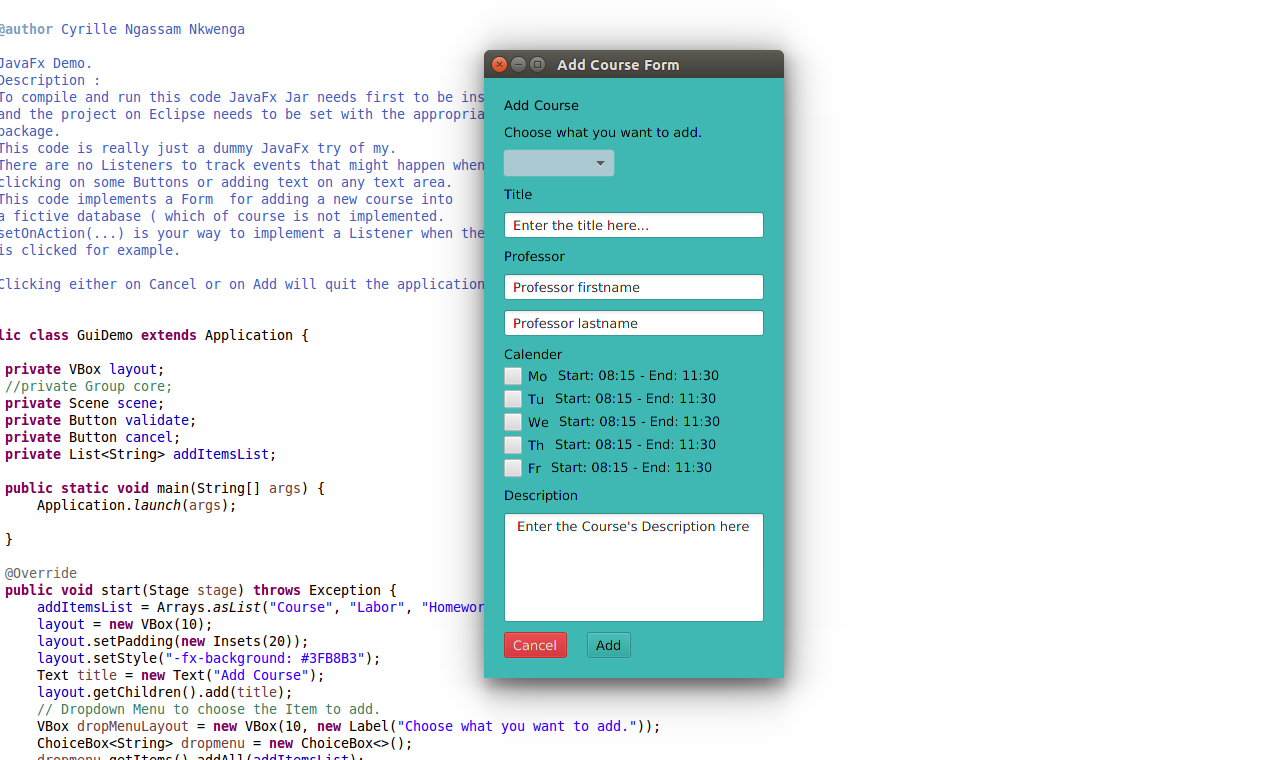
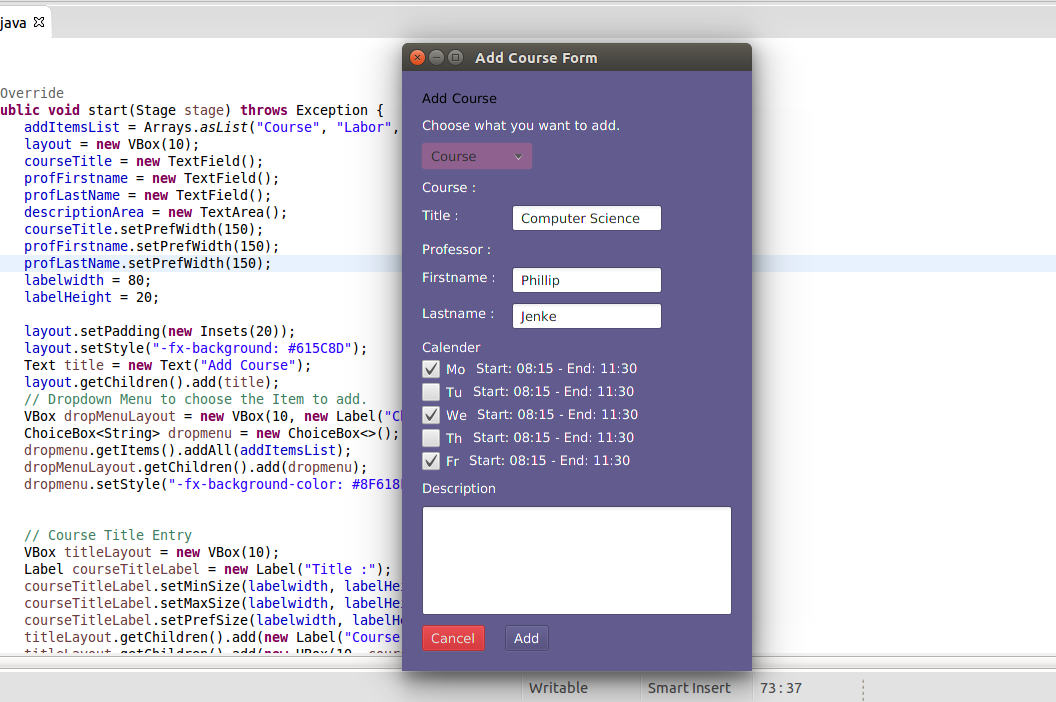
modified some container

diff --git a/src/fxgui/GuiDemo.java b/src/fxgui/GuiDemo.java
@@ -2,7 +2,6 @@ package fxgui;
 import java.util.Arrays;
 import java.util.List;
 
-
 import javafx.application.Application;
 import javafx.application.Platform;
 import javafx.geometry.Insets;
@@ -14,8 +13,10 @@ import javafx.scene.control.ChoiceBox;
 import javafx.scene.control.Label;
 import javafx.scene.control.TextArea;
 import javafx.scene.control.TextField;
+import javafx.scene.layout.AnchorPane;
 import javafx.scene.layout.HBox;
 import javafx.scene.layout.VBox;
+import javafx.scene.shape.Rectangle;
 import javafx.scene.text.Text;
 import javafx.stage.Stage;
 
@@ -47,9 +48,15 @@ public class GuiDemo extends Application {
 	private Button validate;
 	private Button cancel;
 	private List<String> addItemsList;
-
+	private AnchorPane anchorPane;
+	private TextField courseTitle;
+	private TextField profFirstname;
+	private TextField profLastName;
+	private TextArea descriptionArea;
+	private double labelwidth;
+	private double labelHeight;
 	public static void main(String[] args) {
-		Application.launch(args);
+		launch(args);
 
 	}
 
@@ -57,8 +64,18 @@ public class GuiDemo extends Application {
 	public void start(Stage stage) throws Exception {
 		addItemsList = Arrays.asList("Course", "Labor", "Homework", "Exam", "Notice");
 		layout = new VBox(10);
+		courseTitle = new TextField();
+		profFirstname = new TextField();
+		profLastName = new TextField();
+		descriptionArea = new TextArea();
+		courseTitle.setPrefWidth(150);
+		profFirstname.setPrefWidth(150);
+		profLastName.setPrefWidth(150);
+		labelwidth = 80;
+		labelHeight = 20;
+		
 		layout.setPadding(new Insets(20));
-		layout.setStyle("-fx-background: #3FB8B3");
+		layout.setStyle("-fx-background: #615C8D");
 		Text title = new Text("Add Course");
 		layout.getChildren().add(title);
 		// Dropdown Menu to choose the Item to add.
@@ -66,19 +83,34 @@ public class GuiDemo extends Application {
 		ChoiceBox<String> dropmenu = new ChoiceBox<>();
 		dropmenu.getItems().addAll(addItemsList);
 		dropMenuLayout.getChildren().add(dropmenu);
-		dropmenu.setStyle("-fx-background-color: #A9C8D0");
+		dropmenu.setStyle("-fx-background-color: #8F618F");
 		
 		
 		// Course Title Entry
 		VBox titleLayout = new VBox(10);
-		titleLayout.getChildren().add(new Label("Title"));
-		titleLayout.getChildren().add(new TextField("Enter the title here..."));
+		Label courseTitleLabel = new Label("Title :");
+		courseTitleLabel.setMinSize(labelwidth, labelHeight);
+		courseTitleLabel.setMaxSize(labelwidth, labelHeight);
+		courseTitleLabel.setPrefSize(labelwidth, labelHeight);
+		titleLayout.getChildren().add(new Label("Course :"));
+		titleLayout.getChildren().add(new HBox(10, courseTitleLabel,courseTitle));
 		// Professor Entry
 		VBox professorLayout = new VBox(10);
-		professorLayout.getChildren().add(new Label("Professor"));
-		professorLayout.getChildren().add(new TextField("Professor firstname"));
-		professorLayout.getChildren().add(new TextField("Professor lastname"));
+		professorLayout.setPrefWidth(280.0);
+		professorLayout.setMaxWidth(300.0);
+		professorLayout.getChildren().add(new Label("Professor :"));
+		Label firstnameLabel = new Label("Firstname :");
+		Label lastnameLabel = new Label("Lastname :");
+		firstnameLabel.setPrefSize(labelwidth, labelHeight);
+		firstnameLabel.setMaxSize(labelwidth, labelHeight);
+		firstnameLabel.setPrefSize(labelwidth, labelHeight);
 		
+		lastnameLabel.setPrefSize(labelwidth, labelHeight);
+		lastnameLabel.setMaxSize(labelwidth, labelHeight);
+		lastnameLabel.setPrefSize(labelwidth, labelHeight);
+		
+		professorLayout.getChildren().add(new HBox(10, firstnameLabel,profFirstname));
+		professorLayout.getChildren().add(new HBox(10, lastnameLabel, profLastName));
 		// Calender Entry
 		String itemStartEndDate = "Start: 08:15 - End: 11:30";
 		String [] dayLabels = {"Mo", "Tu", "We", "Th", "Fr"};
@@ -91,17 +123,25 @@ public class GuiDemo extends Application {
 		// Description Entry
 		VBox descriptionLayout = new VBox(10);
 		descriptionLayout.getChildren().add(new Label ("Description"));
-		descriptionLayout.getChildren().add(new TextArea (" Enter the Course's Description here"));
+		descriptionLayout.getChildren().add(descriptionArea);
 		validate = new Button("Add");
 		cancel = new Button("Cancel");
 		cancel.setStyle("-fx-base: #E84144");
-		validate.setStyle("-fx-base: #3FB8B3");
+		validate.setStyle("-fx-base: #615C8D");
 		HBox buttons = new HBox(20, cancel, validate);
 		cancel.setOnAction(e-> Platform.exit());
 		validate.setOnAction(e-> Platform.exit());
 		layout.getChildren().addAll(dropMenuLayout,titleLayout,professorLayout,coursePlanLayout,descriptionLayout, buttons);
-
-		scene = new Scene(layout, 300, 600);
+//		anchorPane = new AnchorPane();
+//		AnchorPane.setLeftAnchor(layout, 10.0);
+//		AnchorPane.setBottomAnchor(layout, 10.0);
+//		AnchorPane.setTopAnchor(layout, 10.0);
+//		AnchorPane.setRightAnchor(layout, 10.0);
+//		AnchorPane.setRightAnchor(buttons, 10.0);
+//		AnchorPane.setBottomAnchor(buttons, 20.0);
+//		anchorPane.getChildren().addAll(layout, buttons);
+//		anchorPane.setStyle("-fx-background: #3FB8B3");
+		scene = new Scene(layout, 350, 600);
 		stage.setScene(scene);
 		stage.setTitle("Add Course Form");
 		stage.show();
